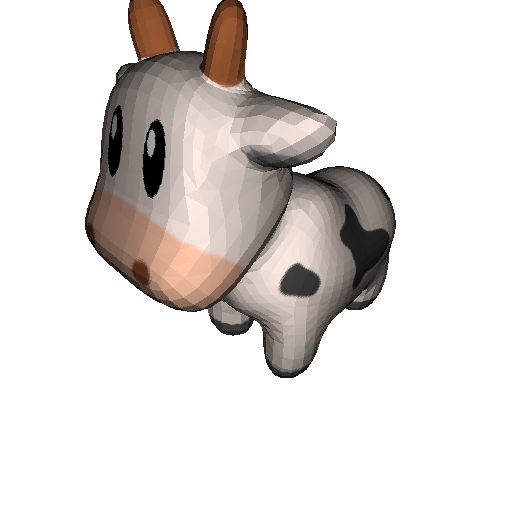
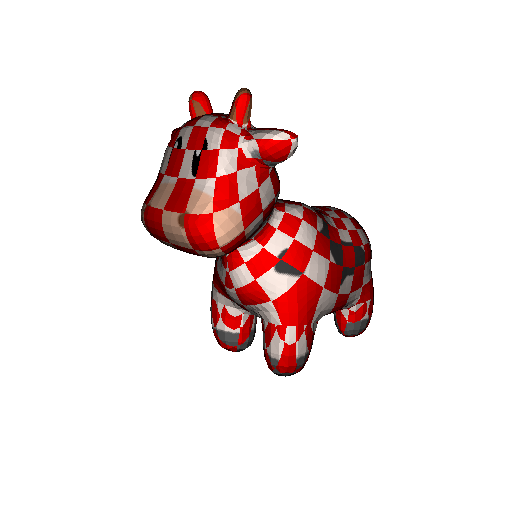
messing around since its cool

Changed region(s): [[0.1562, 0.0, 0.7812, 0.75]]

diff --git a/src/com/JavaPathtracer/Main.java b/src/com/JavaPathtracer/Main.java
@@ -6,6 +6,8 @@ import java.io.IOException;
 
 import com.JavaPathtracer.geometry.BVHMesh;
 import com.JavaPathtracer.geometry.Vector;
+import com.JavaPathtracer.material.Checkerboard;
+import com.JavaPathtracer.material.CombineMaterial;
 import com.JavaPathtracer.material.DiffuseMaterial;
 import com.JavaPathtracer.material.IMaterial;
 import com.JavaPathtracer.material.Texture;
@@ -16,9 +18,9 @@ public class Main {
 
 	public static Camera createCamera() {
 	
-		Camera camera = new Camera(new Vector(1.0, 1.0, -1.0));
+		Camera camera = new Camera(new Vector(1.0, 0.4, -1.0).times(2.0));
 		camera.lookAt(new Vector(0, 0, 0));
-		camera.setFOV(40);
+		camera.setFOV(30);
 		
 		return camera;
 		
@@ -32,7 +34,9 @@ public class Main {
 		scene.setSkyEmission(new Vector(3.0));
 		
 		// materials
-		IMaterial mat = new DiffuseMaterial(new Texture(new File("assets/spot/spot.png")), new Vector(0.0));
+		IMaterial matdiff = new DiffuseMaterial(new Texture(new File("assets/spot/spot.png")), new Vector(0.0));
+		IMaterial matdiff2 = new DiffuseMaterial(new Vector(1.0, 0.0, 0.0), new Vector(0.0));
+		IMaterial mat = new CombineMaterial(matdiff, matdiff2, new Checkerboard());
 		
 		scene.add(new BVHMesh(new File("assets/spot/spot.obj")), mat);
 		
@@ -53,7 +57,7 @@ public class Main {
 		Raytracer rt = new DebugTracer(camera, scene);
 		//Raytracer rt = new Pathtracer(5, 500, camera, scene, new InverseTonemapper());
 		
-		Renderer renderer = new LivePreviewRenderer(rt, 4, 1);
+		Renderer renderer = new LivePreviewRenderer(rt, 4, 2);
 		renderer.render(output);
 		
 		long end = System.currentTimeMillis();

diff --git a/src/com/JavaPathtracer/material/Checkerboard.java b/src/com/JavaPathtracer/material/Checkerboard.java
@@ -2,17 +2,27 @@ package com.JavaPathtracer.material;
 
 import com.JavaPathtracer.geometry.Vector;
 
-public class Checkerboard implements ISampleable {
+public class Checkerboard implements ISampleable, ISampleableScalar {
 
-	private static final Vector BLACK = new Vector(0.0, 0.0, 0.0);
-	private static final Vector WHITE = new Vector(1.0, 1.0, 1.0);
+	private Vector color1, color2;
+	
+	public Checkerboard(Vector color1, Vector color2) {
+		this.color1 = color1;
+		this.color2 = color2;
+	}
 	
 	public Checkerboard() {
+		this(new Vector(1.0), new Vector(0.0));
 	}
 	
 	@Override
 	public Vector sample(double u, double v) {
-		return ((int)(u / 0.5) % 2 == 0) ^ ((int)(v / 0.5) % 2 == 0) ? BLACK : WHITE;
+		return ((int)(u / 0.03) % 2 == 0) ^ ((int)(v / 0.03) % 2 == 0) ? color1 : color2;
+	}
+	
+	@Override
+	public double sampleScalar(double u, double v) {
+		return this.sample(u, v).x;
 	}
 
 }

diff --git a/src/com/JavaPathtracer/Scene.java b/src/com/JavaPathtracer/Scene.java
@@ -29,10 +29,9 @@ public class Scene {
 	public Vector getSkyEmission(Vector direction) {
 		Vector invDir = new Vector(0.0, 0.0, 0.0).minus(direction);
 		double azimuth = (Math.atan2(invDir.z, invDir.x) + 0.5) % (2 * Math.PI);
-		double inclination = -Math.asin(invDir.y);
+		double inclination = Math.asin(invDir.y);
 		double u = 0.5 + azimuth / (2 * Math.PI);
 		double v = 0.5 - inclination / Math.PI;
-		
 		return skyEmission.sample(u, v);
 	}
 	
